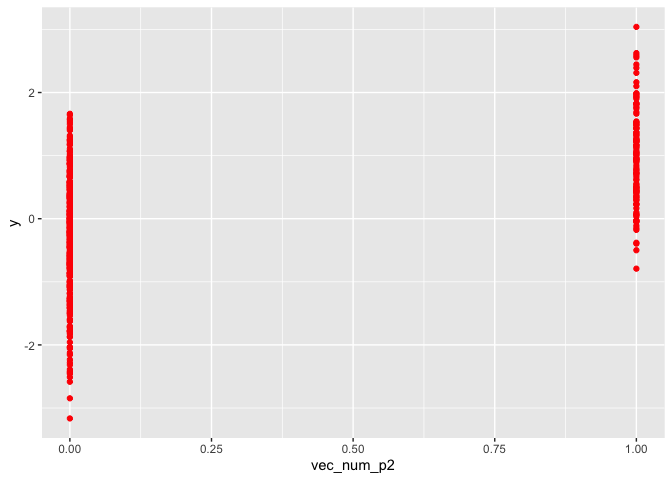
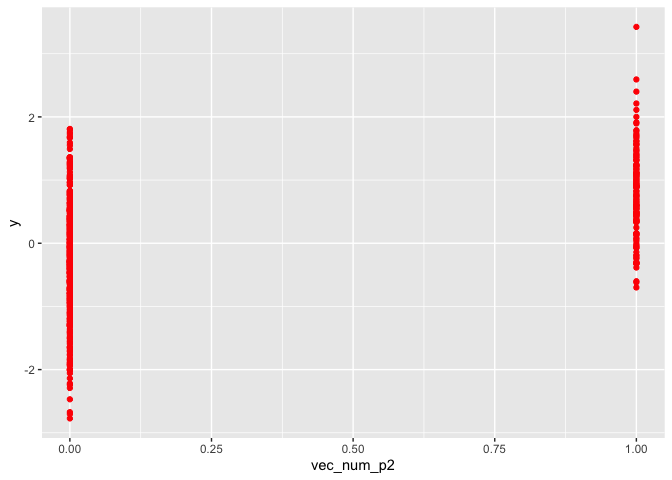
Included all files in my final commit. Included more descriptions around each problem

diff --git a/p8105_hw1_blm2156.md b/p8105_hw1_blm2156.md
@@ -5,18 +5,28 @@ p8105\_hw1\_blm2156
 library(tidyverse)
 ```
 
-    ## ── Attaching packages ──────────────────────────────── tidyverse 1.2.1 ──
+    ## ── Attaching packages ── tidyverse 1.2.1 ──
 
     ## ✔ ggplot2 3.2.1     ✔ purrr   0.3.2
     ## ✔ tibble  2.1.3     ✔ dplyr   0.8.3
     ## ✔ tidyr   0.8.3     ✔ stringr 1.4.0
     ## ✔ readr   1.3.1     ✔ forcats 0.4.0
 
-    ## ── Conflicts ─────────────────────────────────── tidyverse_conflicts() ──
+    ## ── Conflicts ───── tidyverse_conflicts() ──
     ## ✖ dplyr::filter() masks stats::filter()
     ## ✖ dplyr::lag()    masks stats::lag()
 
 # Problem 1
+
+Create a data frame comprised of:
+
+1)  a random sample of size 8 from a standard Normal distribution
+2)  a logical vector indicating whether elements of the sample are
+    greater than 0
+3)  a character vector of length 8
+4)  a factor vector of length 8, with 3 different factor “levels”
+
+<!-- end list -->
 
 ``` r
 problem_1_df = tibble(
@@ -31,13 +41,13 @@ problem_1_df = tibble(
 mean(pull(problem_1_df, vec_numeric))
 ```
 
-    ## [1] -0.5094895
+    ## [1] 0.4965184
 
 ``` r
 mean(pull(problem_1_df, vec_logical))
 ```
 
-    ## [1] 0.25
+    ## [1] 0.625
 
 ``` r
 mean(pull(problem_1_df, vec_character))
@@ -91,8 +101,8 @@ vectors.
 as.numeric(pull(problem_1_df, vec_logical))*(pull(problem_1_df, vec_numeric))
 ```
 
-    ## [1] 0.0000000 0.0000000 0.2806415 0.8138930 0.0000000 0.0000000 0.0000000
-    ## [8] 0.0000000
+    ## [1] 0.8589142 2.0467662 1.6600410 0.0000000 0.0000000 0.4324488 0.0000000
+    ## [8] 0.7329979
 
 ``` r
 as.factor(pull(problem_1_df, vec_logical))*(pull(problem_1_df, vec_numeric))
@@ -114,6 +124,20 @@ as.numeric(as.factor(pull(problem_1_df, vec_logical))*(pull(problem_1_df, vec_nu
 
 # Problem 2
 
+Create a data frame comprised of:
+
+1)  x: a random sample of size 500 from a standard Normal distribution
+
+2)  y: a random sample of size 500 from a standard Normal distribution
+
+3)  A logical vector indicating whether x + y \> 1
+
+4)  A numeric vector created by coercing the above logical vector
+
+5)  A factor vector created by coercing the above logical vector
+
+<!-- end list -->
+
 ``` r
 problem_2_df = tibble(
   x = rnorm(500),
@@ -126,9 +150,9 @@ problem_2_df = tibble(
 
 The size of the datatset `problem_2_df` is 500 rows and 5 columns.
 
-The mean is -0.0765499. The median is -0.0550374. The standard deviation
-is 1.0103296. The proportion of cases for which x + y \> 1 is
-0.23.
+The mean is 0.0846533. The median is 0.0958932. The standard deviation
+is 1.0175078. The proportion of cases for which x + y \> 1 is
+0.268.
 
 ``` r
 ggplot(problem_2_df) + geom_point(aes(x = x, y = y), color = 'blue')
